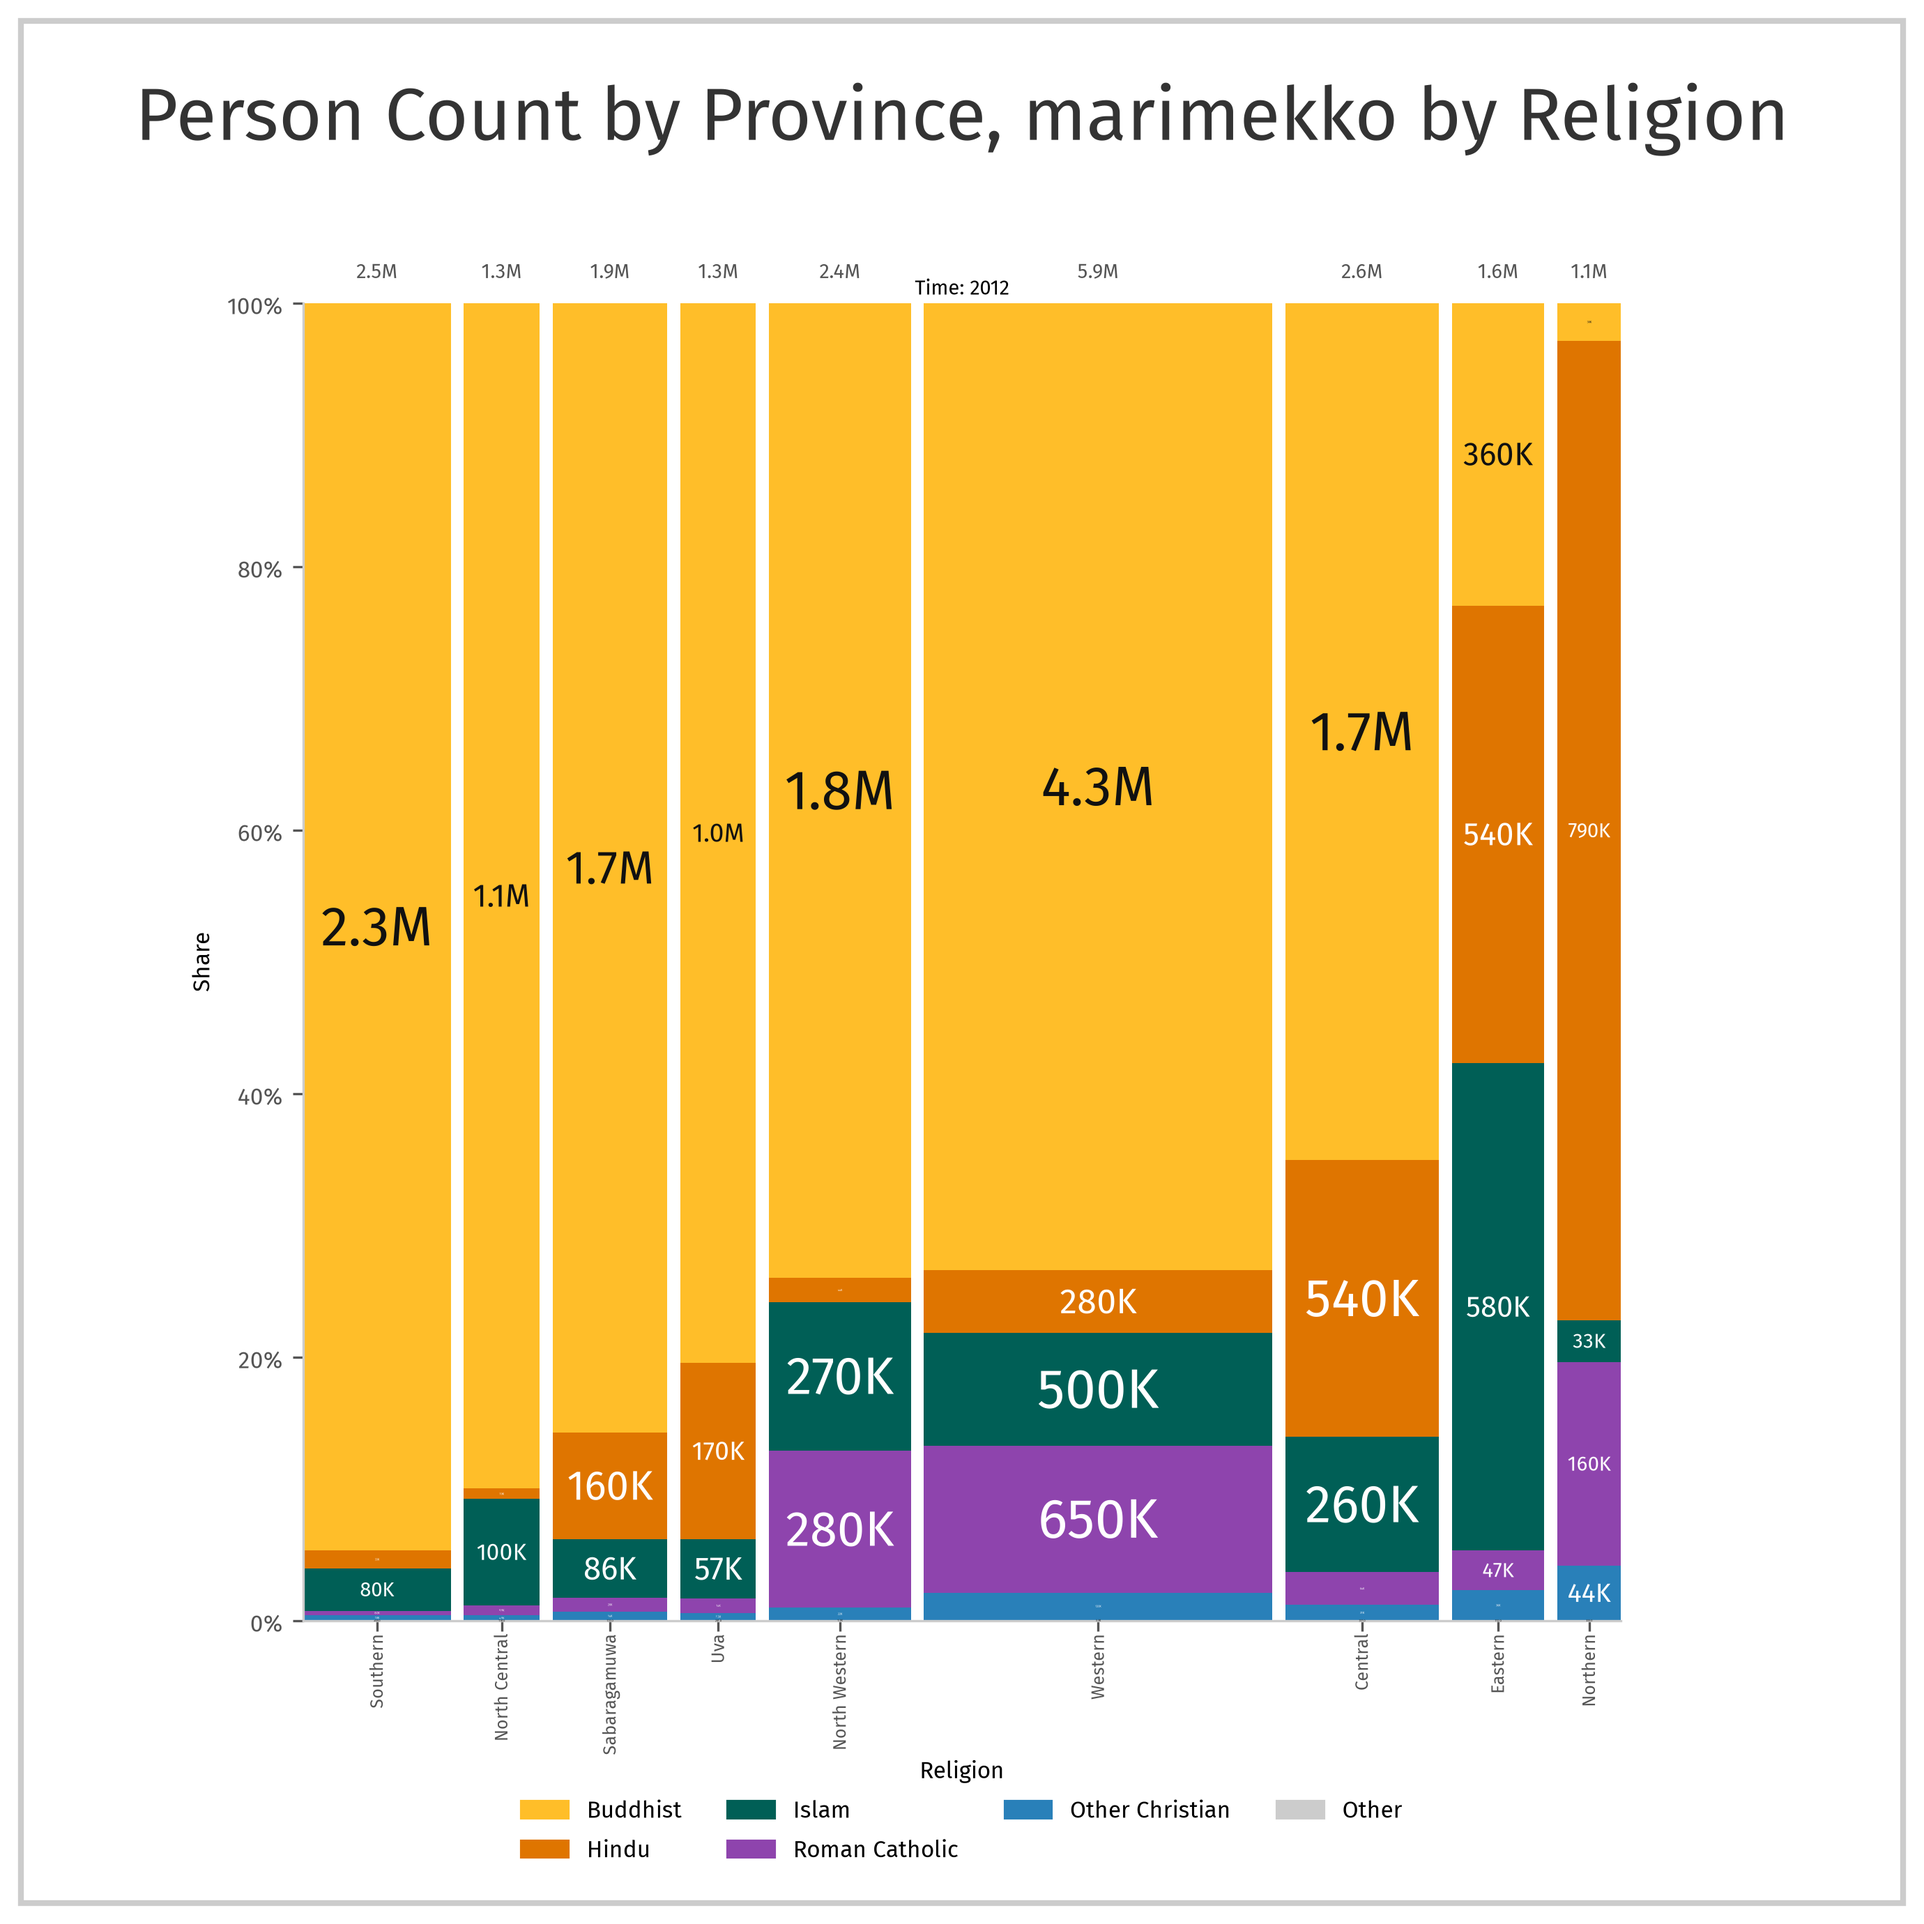
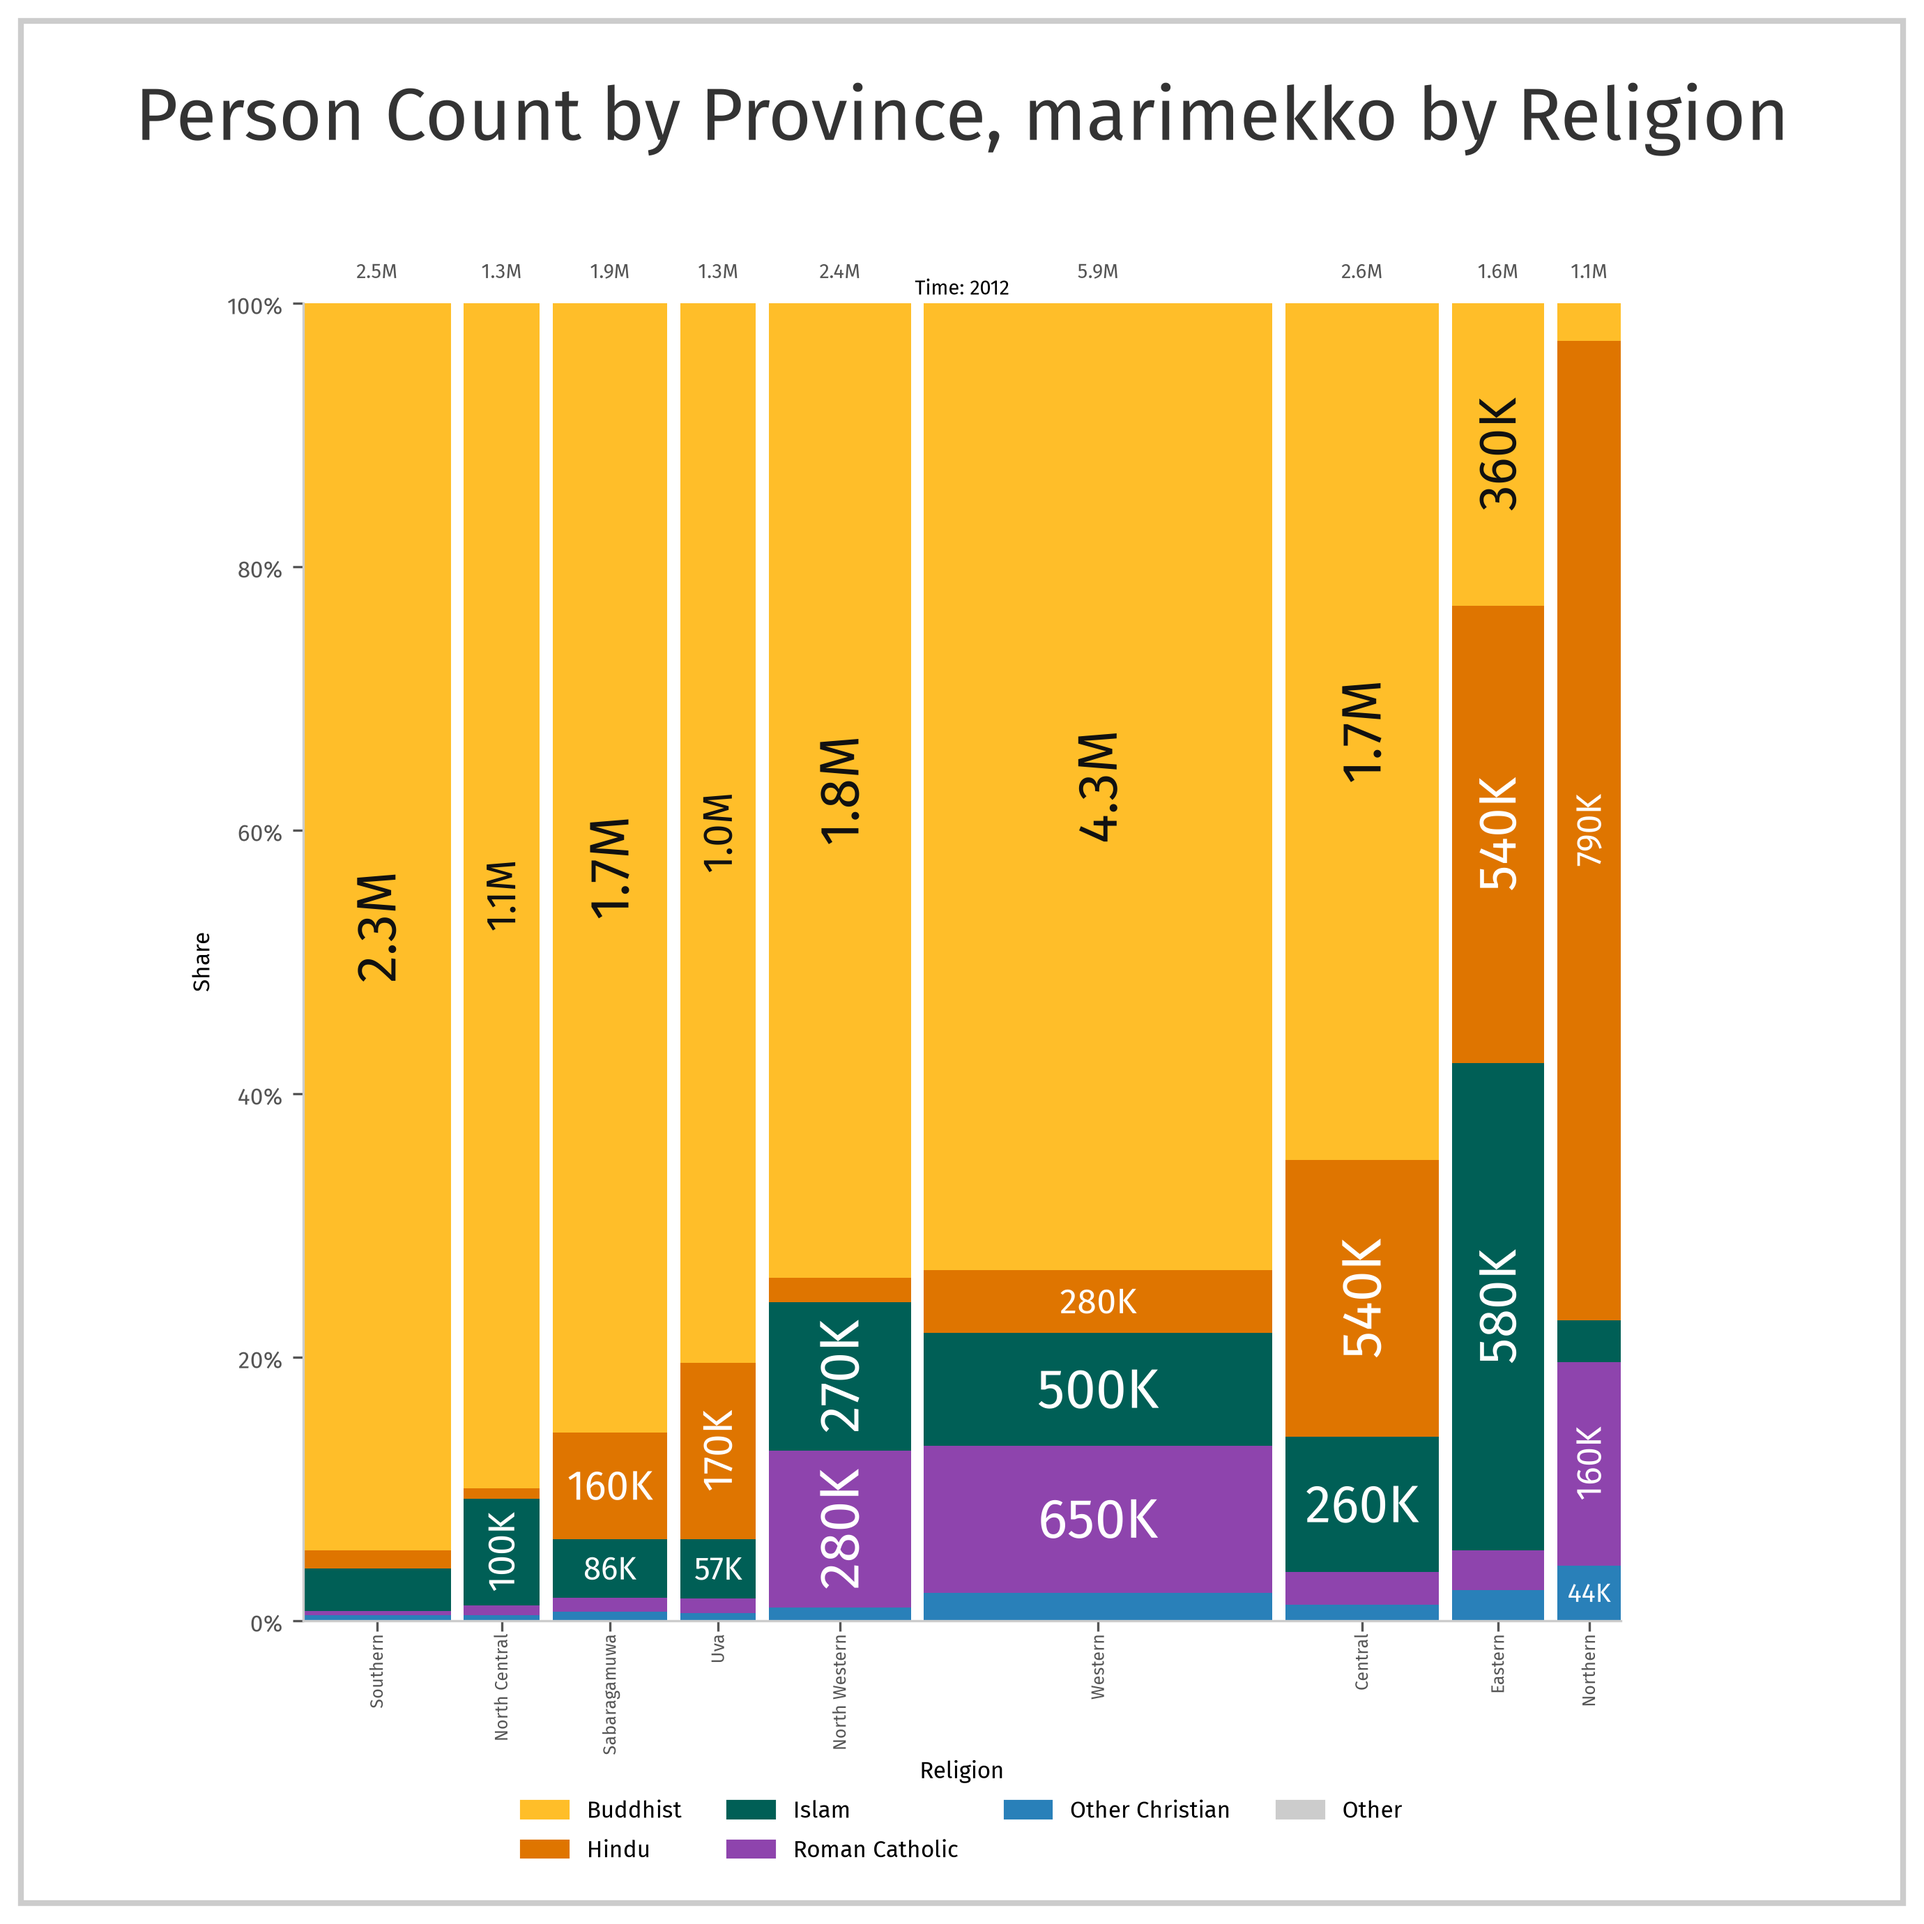
Refactor code structure for improved readability and maintainability

diff --git a/tests/test_visual.py b/tests/test_visual.py
@@ -21,37 +21,37 @@ class TestCase(unittest.TestCase):
                 "BarChart",
             ),
             (
-                "Person/Time=2012*Province*Religion/Count",
+                "Person/Time=2024*Province*Religion/Count",
                 "PieChart",
             ),
             (
-                "Person/Time=2012*Province*Religion/Count",
+                "Person/Time=2024*Province*Religion/Count",
                 "StackedBarChart",
             ),
             (
-                "Person/Time=2012*District*Religion/Count",
+                "Person/Time=2024*District*Religion/Count",
                 "StackedBarChart",
             ),
             (
-                "Person/Time=2012*Province*Religion=buddhist/Count",
+                "Person/Time=2024*Province*Religion=buddhist/Count",
                 "MapVisual",
             ),
             (
-                "Person/Time=2012*District<Province=western*Religion/Count",
+                "Person/Time=2024*District<Province=western*Religion/Count",
                 "StackedBarChart",
             ),
             (
-                "Person/Time=2012*PD<District=colombo*Religion=islam/Count",
+                "Person/Time=2024*PD<District=colombo*Religion=islam/Count",
                 "MapVisual",
             ),
             (
-                "Person/Time=2012*DSD<District=gampaha*Religion/Count",
+                "Person/Time=2024*DSD<District=gampaha*Religion/Count",
                 "StackedBarChart",
             ),
         ]
 
     def test_basic(self):
-        query_str = "Person/Time=2012*Province*Religion/Count"
+        query_str = "Person/Time=2024*Province*Religion/Count"
         datumset = LankaData[query_str]
         visual = MarimekkoChart(datumset)
         totals = [100.0, 300.0]
@@ -90,7 +90,7 @@ class TestCase(unittest.TestCase):
                 self.assertTrue(visual.image_file.exists())
 
     def test_concept_color_map(self):
-        query_str = "Person/Time=2012*Province=Central*Religion/Count"
+        query_str = "Person/Time=2024*Province=Central*Religion/Count"
         datumset = LankaData[query_str]
         visual = PieChart(datumset)
         expected_color_map = Religion.get_color_map()
@@ -102,7 +102,7 @@ class TestCase(unittest.TestCase):
         self.assertGreater(n_matches, 0)
 
     def test_map_concept_color_map_hsl(self):
-        query_str = "Person/Time=2012*Province*Religion=buddhist/Count"
+        query_str = "Person/Time=2024*Province*Religion=buddhist/Count"
         datumset = LankaData[query_str]
         visual = MapVisual(datumset)
         cmap = visual._get_value_cmap()
@@ -136,7 +136,7 @@ class TestCase(unittest.TestCase):
         self.assertEqual("Western", visual._format_visual_value("Western"))
 
     def test_pie_percentage_only_labels(self):
-        query_str = "Person/Time=2012*Province=Western*Religion/Count"
+        query_str = "Person/Time=2024*Province=Western*Religion/Count"
         datumset = LankaData[query_str]
         visual = PieChart(datumset)
         autopct = visual._build_autopct()
@@ -144,14 +144,14 @@ class TestCase(unittest.TestCase):
         self.assertEqual("<0.5%", autopct(0.4))
 
     def test_pie_radius_scaling(self):
-        query_str = "Person/Time=2012*Province=Western*Religion/Count"
+        query_str = "Person/Time=2024*Province=Western*Religion/Count"
         datumset = LankaData[query_str]
         visual = PieChart(datumset)
         self.assertEqual(1.0, visual._get_pie_radius(50.0, 100.0, 1))
         self.assertAlmostEqual(0.5, visual._get_pie_radius(25.0, 100.0, 4))
 
     def test_contrast_text_color(self):
-        query_str = "Person/Time=2012*Province=Western*Religion/Count"
+        query_str = "Person/Time=2024*Province=Western*Religion/Count"
         datumset = LankaData[query_str]
         visual = PieChart(datumset)
         self.assertEqual(
@@ -165,7 +165,7 @@ class TestCase(unittest.TestCase):
 
     def test_child_region_query_format_in_image_path(self):
         query_str = (
-            "Person/Time=2012*District<Province=western*Religion/Count"
+            "Person/Time=2024*District<Province=western*Religion/Count"
         )
         datumset = LankaData[query_str]
         visual = StackedBarChart(
@@ -175,7 +175,7 @@ class TestCase(unittest.TestCase):
 
     def test_map_visual_shows_only_regions_with_data(self):
         query_str = (
-            "Person/Time=2012*DSD<District=colombo*Religion=islam/Count"
+            "Person/Time=2024*DSD<District=colombo*Religion=islam/Count"
         )
         datumset = LankaData[query_str]
         visual = MapVisual(datumset)

diff --git a/src/ds/visual/Visual.py b/src/ds/visual/Visual.py
@@ -496,7 +496,11 @@ class Visual(ABC):
         px_to_pt = 72.0 / sub_ax.figure.dpi
         return int(min_dim_px * px_to_pt * self.STACK_LABEL_MIN_DIM_RATIO)
 
-    def _get_best_rect_label_fontsize(self, sub_ax, rect, label):
+    def _get_rect_label_rotation(self, sub_ax, rect):
+        width_px, height_px = self._get_rect_size_px(sub_ax, rect)
+        return 90 if height_px > width_px else 0
+
+    def _get_best_rect_label_fontsize(self, sub_ax, rect, label, rotation):
         fig = sub_ax.figure
         fig.canvas.draw()
         renderer = fig.canvas.get_renderer()
@@ -506,7 +510,14 @@ class Visual(ABC):
         fontsize_cap = self._get_rect_fontsize_cap(sub_ax, rect)
         if fontsize_cap < self.MIN_STACK_LABEL_FONTSIZE:
             return 0
-        probe = sub_ax.text(cx, cy, label, ha="center", va="center")
+        probe = sub_ax.text(
+            cx,
+            cy,
+            label,
+            ha="center",
+            va="center",
+            rotation=rotation,
+        )
         best_fontsize = 0
         max_fontsize = min(self.MAX_STACK_LABEL_FONTSIZE, fontsize_cap)
         for fontsize in range(max_fontsize, 3, -1):
@@ -514,8 +525,7 @@ class Visual(ABC):
             bbox = probe.get_window_extent(renderer=renderer)
             if (
                 bbox.width <= max_width_px * self.STACK_LABEL_BBOX_MARGIN
-                and bbox.height
-                <= max_height_px * self.STACK_LABEL_BBOX_MARGIN
+                and bbox.height <= max_height_px * self.STACK_LABEL_BBOX_MARGIN
             ):
                 best_fontsize = fontsize
                 break
@@ -523,8 +533,16 @@ class Visual(ABC):
         return best_fontsize
 
     def _add_fitted_label_in_rect(self, sub_ax, rect, label):
-        fontsize = self._get_best_rect_label_fontsize(sub_ax, rect, label)
+        rotation = self._get_rect_label_rotation(sub_ax, rect)
+        fontsize = self._get_best_rect_label_fontsize(
+            sub_ax,
+            rect,
+            label,
+            rotation,
+        )
         fontsize -= self.STACK_LABEL_FONT_REDUCTION
+        if fontsize < self.MIN_STACK_LABEL_FONTSIZE:
+            return
         cx = rect.get_x() + rect.get_width() / 2.0
         cy = rect.get_y() + rect.get_height() / 2.0
         sub_ax.text(
@@ -533,6 +551,7 @@ class Visual(ABC):
             label,
             ha="center",
             va="center",
+            rotation=rotation,
             fontsize=fontsize,
             color=self._get_contrast_text_color(rect.get_facecolor()),
         )
